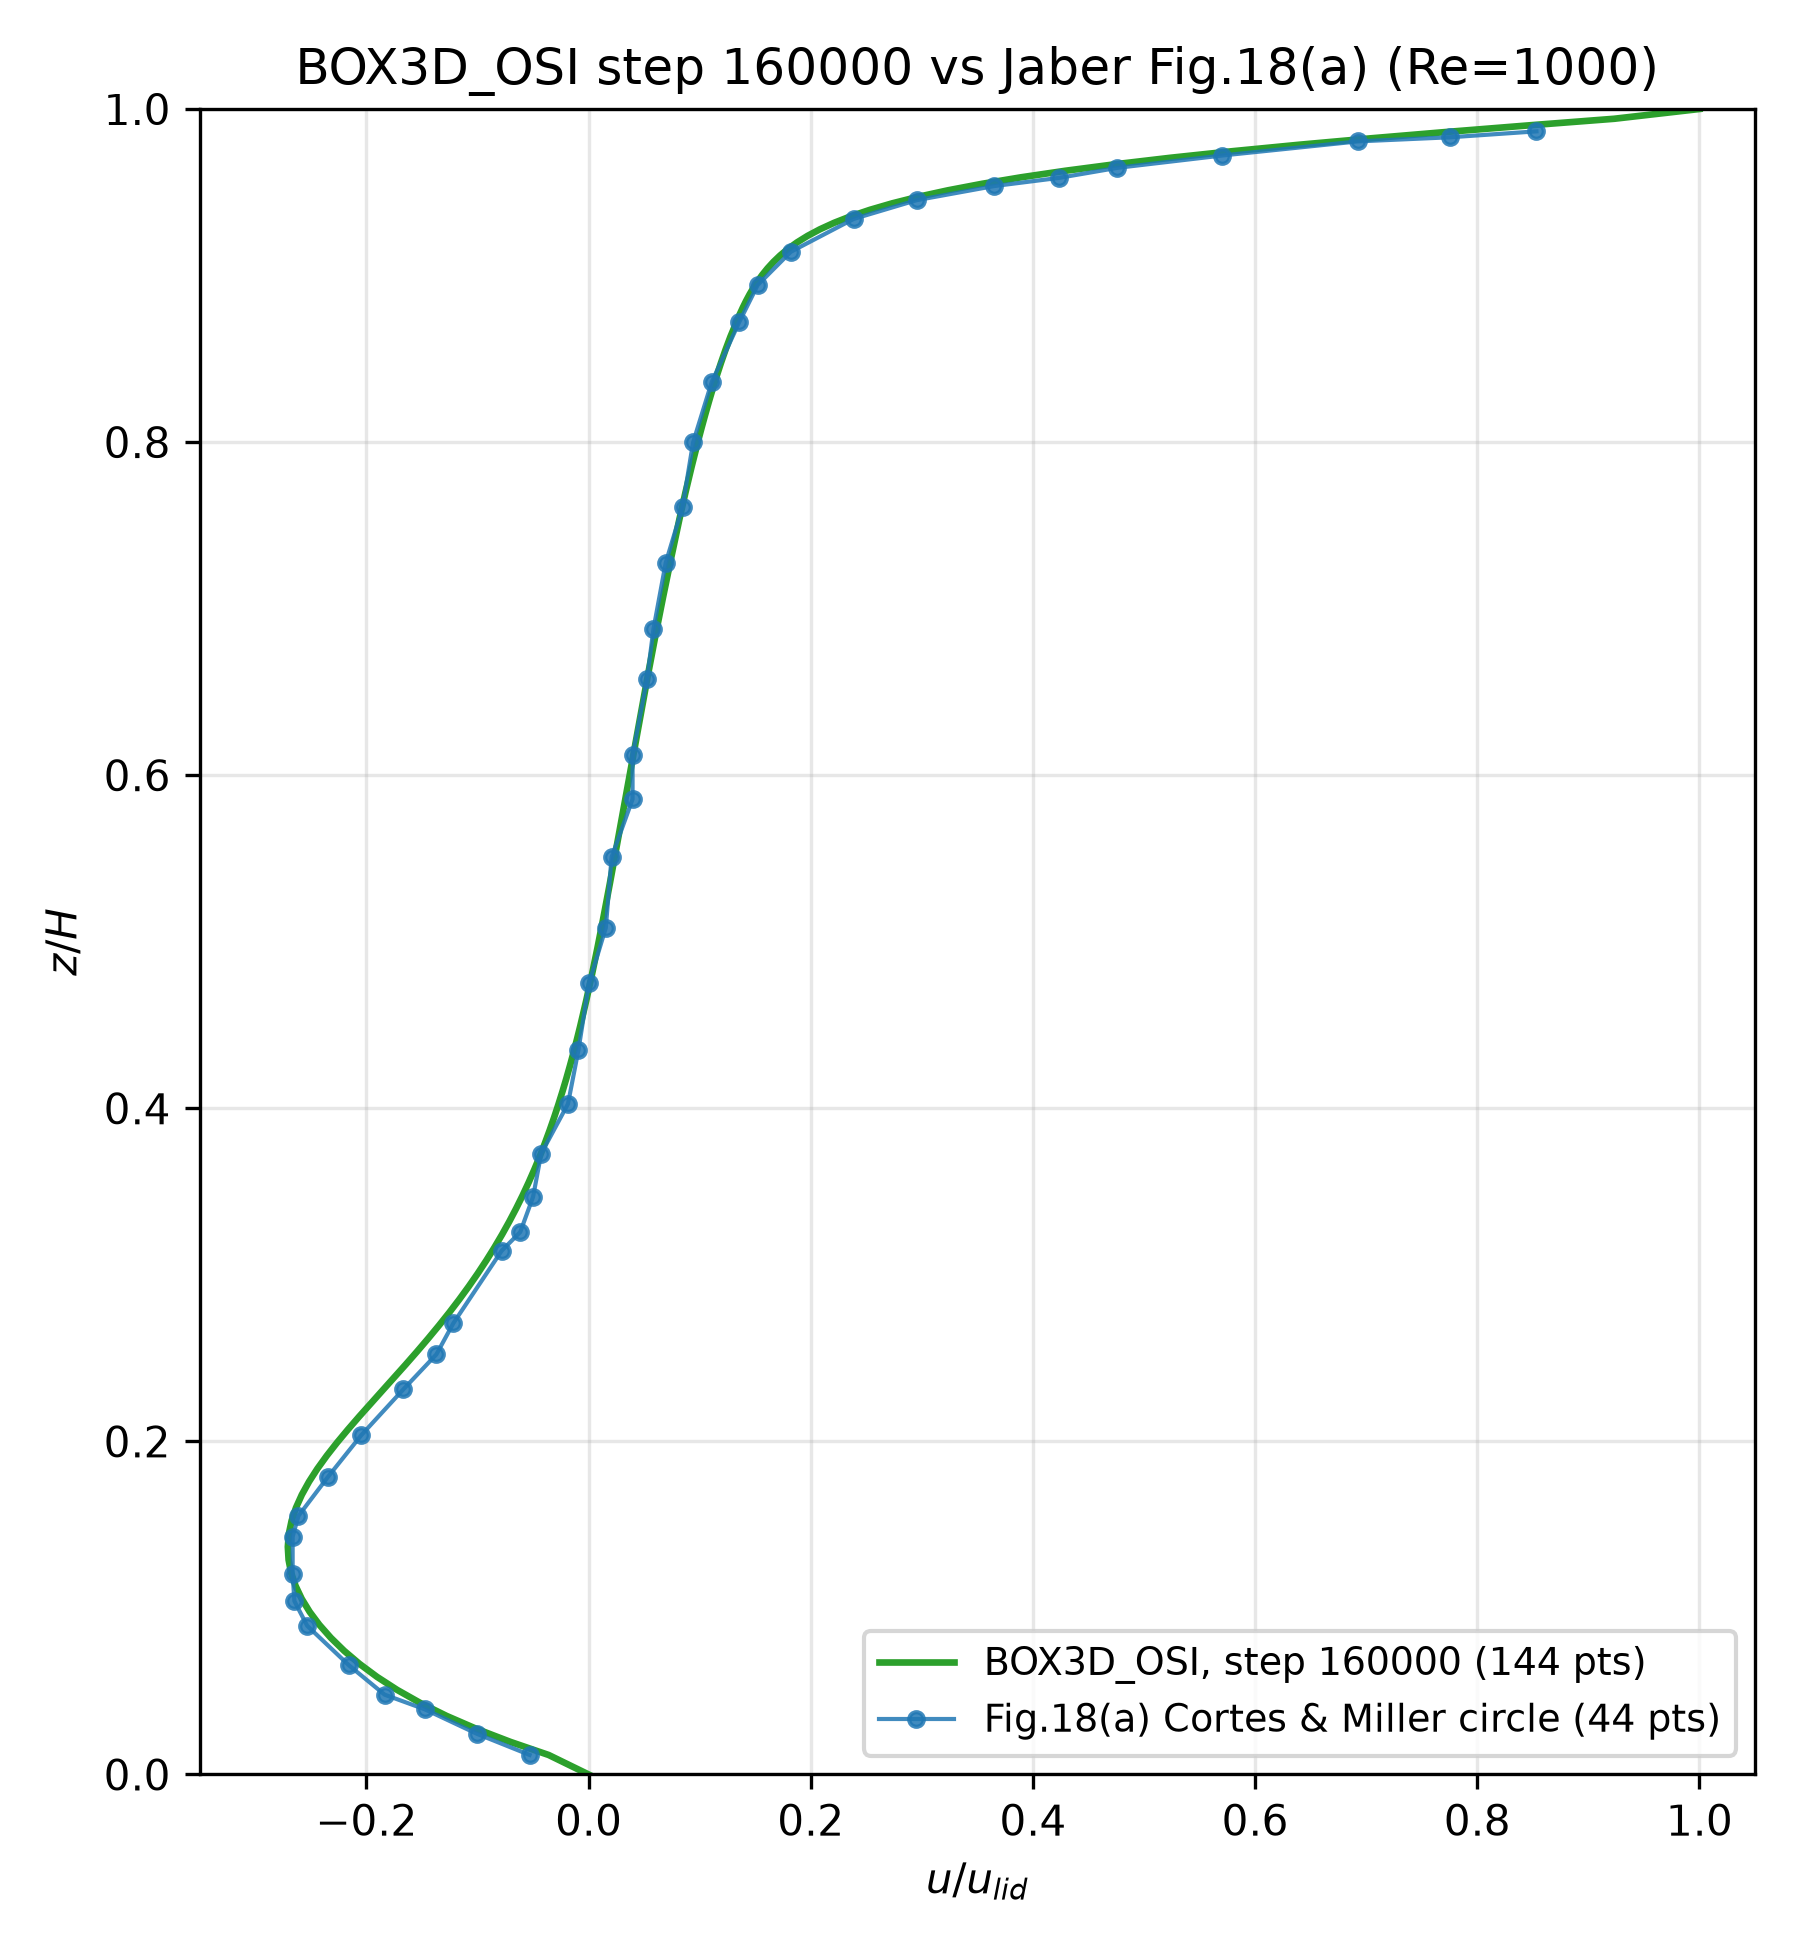
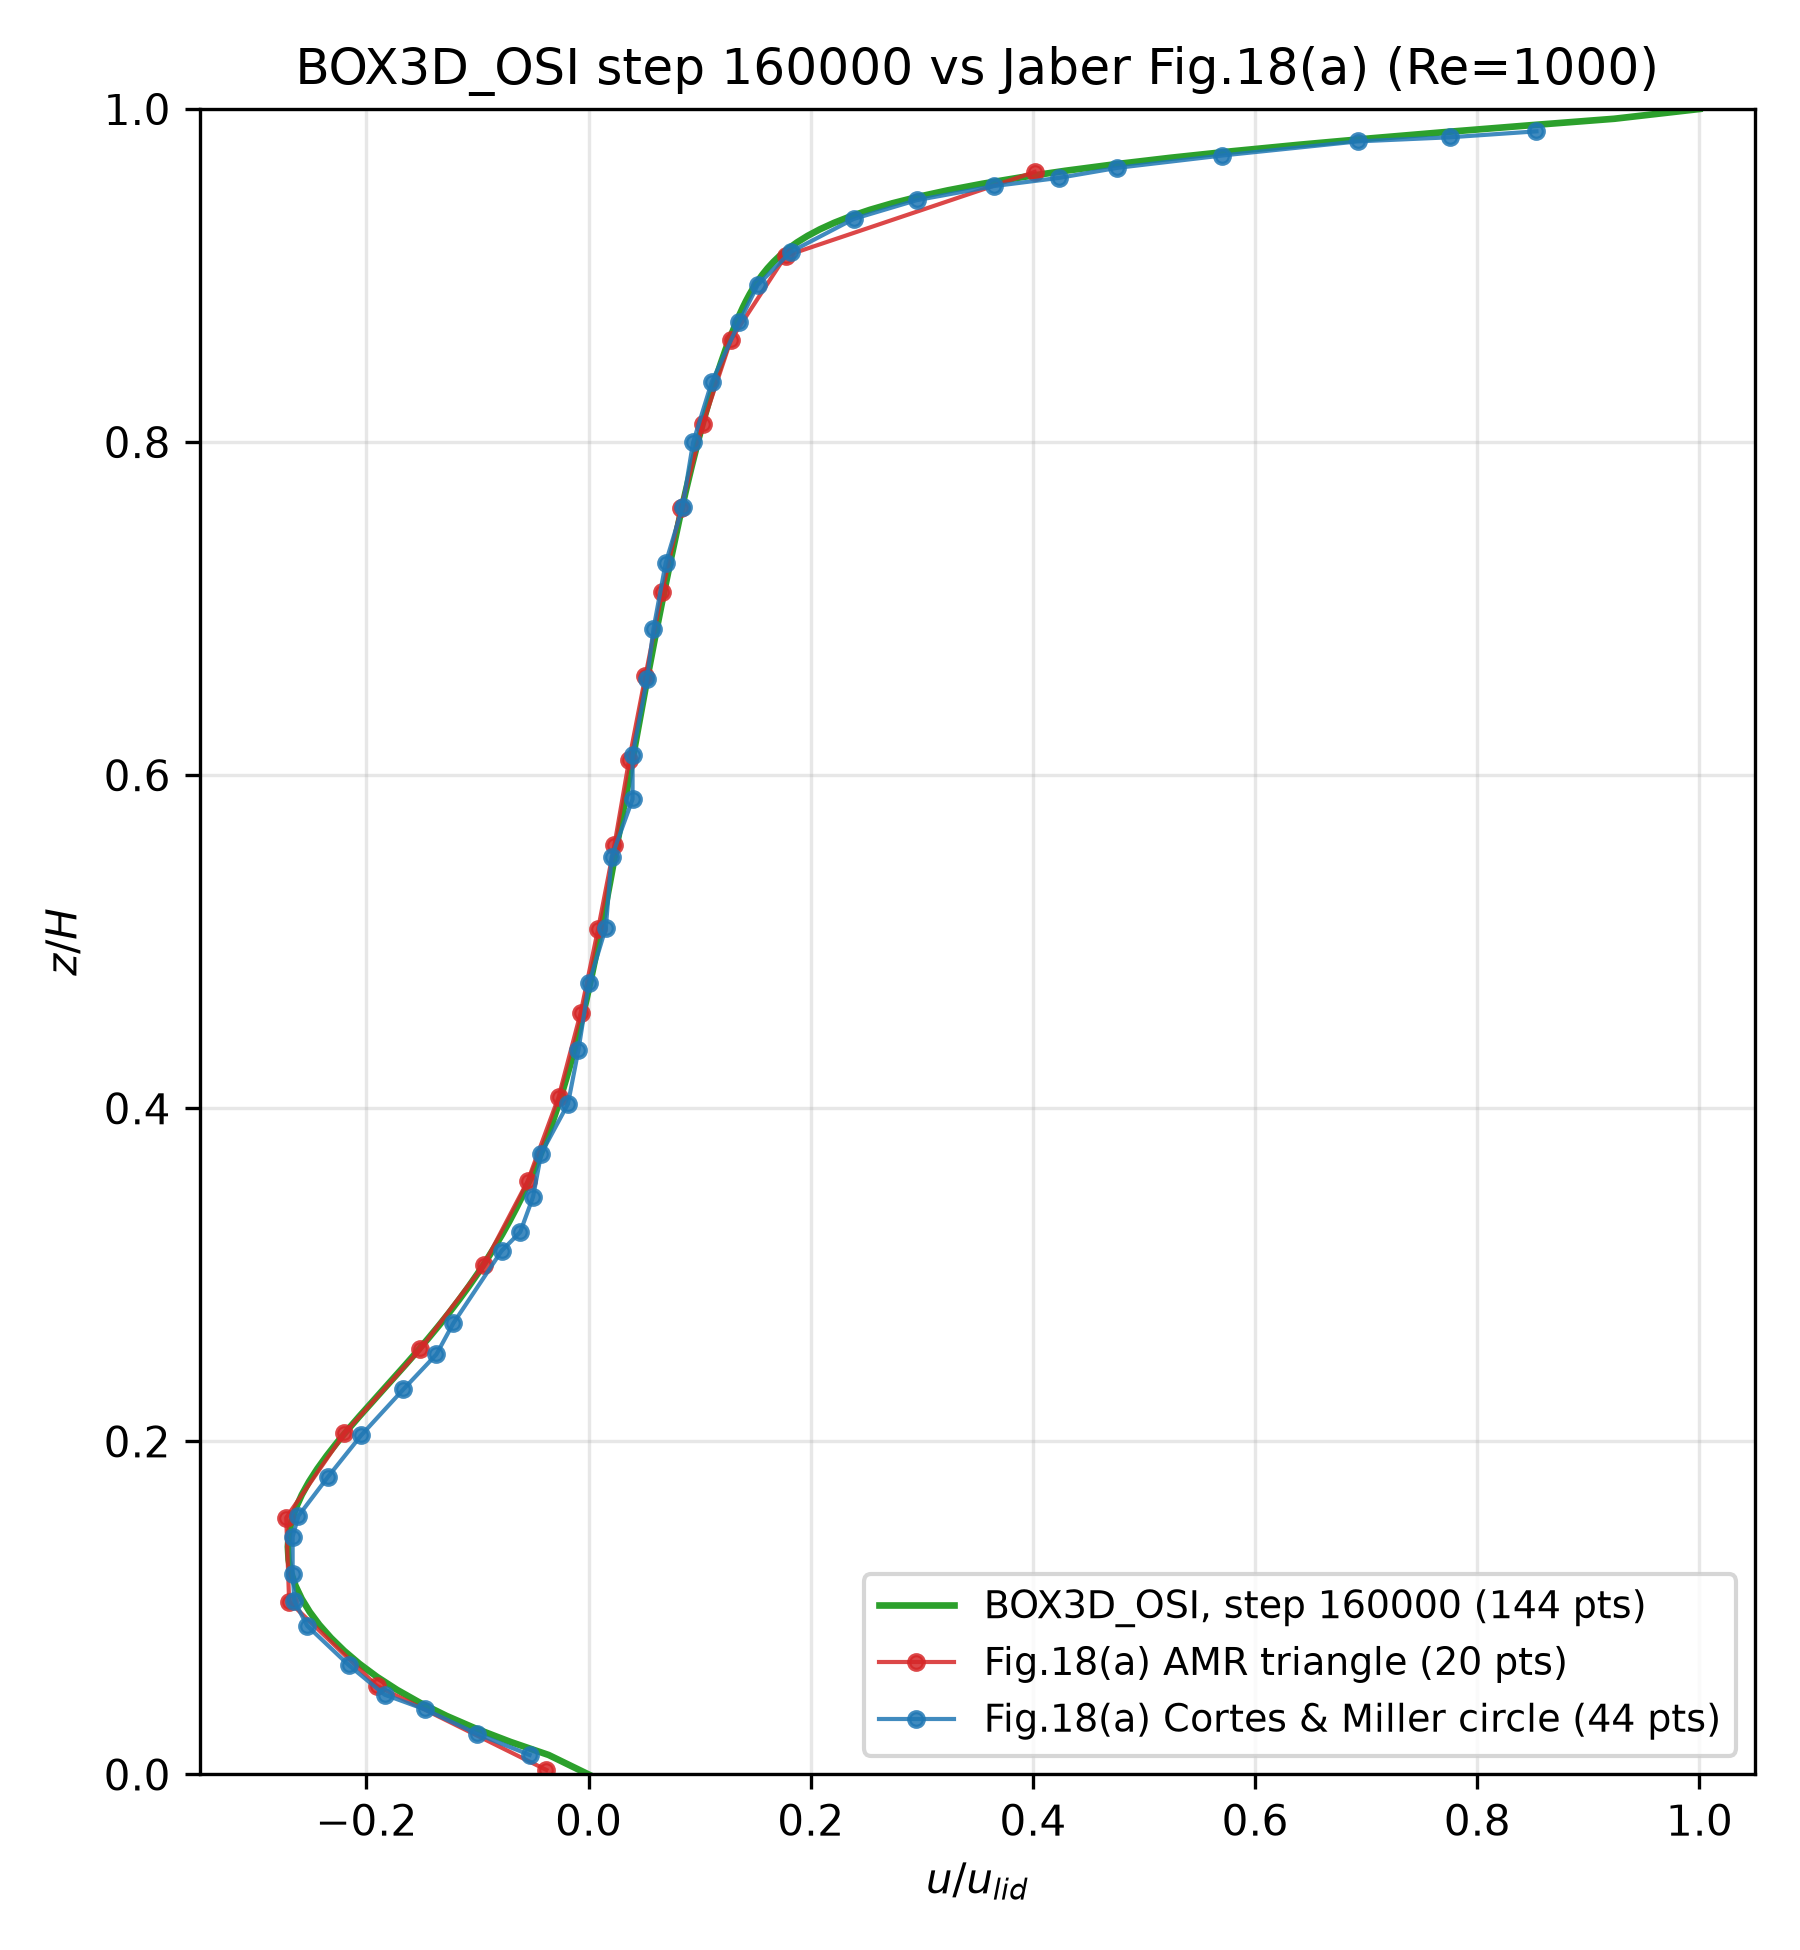
before codex

diff --git a/projects/3Dcases/Computing_performance_test/BOX3D_OSI/src/AmrCoreLBM.cpp b/projects/3Dcases/Computing_performance_test/BOX3D_OSI/src/AmrCoreLBM.cpp
@@ -3906,7 +3906,7 @@ void AmrCoreLBM::WriteCheckpoint(int step, amrex::Real time) const {
     }
     ParallelDescriptor::Barrier();
 
-    if (isIOP) { //写Header
+    if (isIOP) { // 写Header
         std::ofstream header(out_chkname + "/Header", std::ios::out | std::ios::trunc);
         if (!header.is_open()) {
             amrex::Print() << "[Checkpoint][ERROR] Cannot open '" << out_chkname
@@ -3927,7 +3927,7 @@ void AmrCoreLBM::WriteCheckpoint(int step, amrex::Real time) const {
             DistributionMap(lev).writeOn(header);
             header << '\n';
         }
-        header.flush();
+        header.flush(); // 将 C++ 输出缓冲区中的数据立即刷新到文件中
     }
 
     for (int lev = 0; lev <= finest_level; ++lev) {
@@ -3941,9 +3941,7 @@ void AmrCoreLBM::WriteCheckpoint(int step, amrex::Real time) const {
             continue;
         }
 
-        // Checkpoint only persists logical valid DDF. Raw OSI coordinates and
-        // Fab-local phase are deliberately not part of the file format, so the
-        // checkpoint can be restarted with another DistributionMapping.
+        // 保存检查点时不写入 OSI 原始坐标、Fab 局部相位；重启作业时允许使用完全不同的进程网格分配策略，不需要和生成 checkpoint 时的`DistributionMapping`保持一致。
         const MultiFab& state = osi_state.at(lev);
         MultiFab canonical(
             state.boxArray(), state.DistributionMap(), Q, 0);

diff --git a/projects/3Dcases/Computing_performance_test/BOX3D_OSI/data_post_processing/plot_overlap_160000_fig18a.py b/projects/3Dcases/Computing_performance_test/BOX3D_OSI/data_post_processing/plot_overlap_160000_fig18a.py
@@ -23,8 +23,8 @@ OUT = HERE / "Re1000_3D_overlap_160000_fig18a.png"
 
 # fig18a 机器提取参考系列配色
 REF_STYLE = {
-    "Cortes_and_Miller_circle": {"color": "#1f77b4", "marker": "o",
-                                  "label": "Fig.18(a) Cortes & Miller circle"},
+    "AMR_triangle": {"color": "#d62728", "label": "Fig.18(a) AMR triangle"},
+    "Cortes_and_Miller_circle": {"color": "#1f77b4", "label": "Fig.18(a) Cortes & Miller circle"},
 }
 
 
